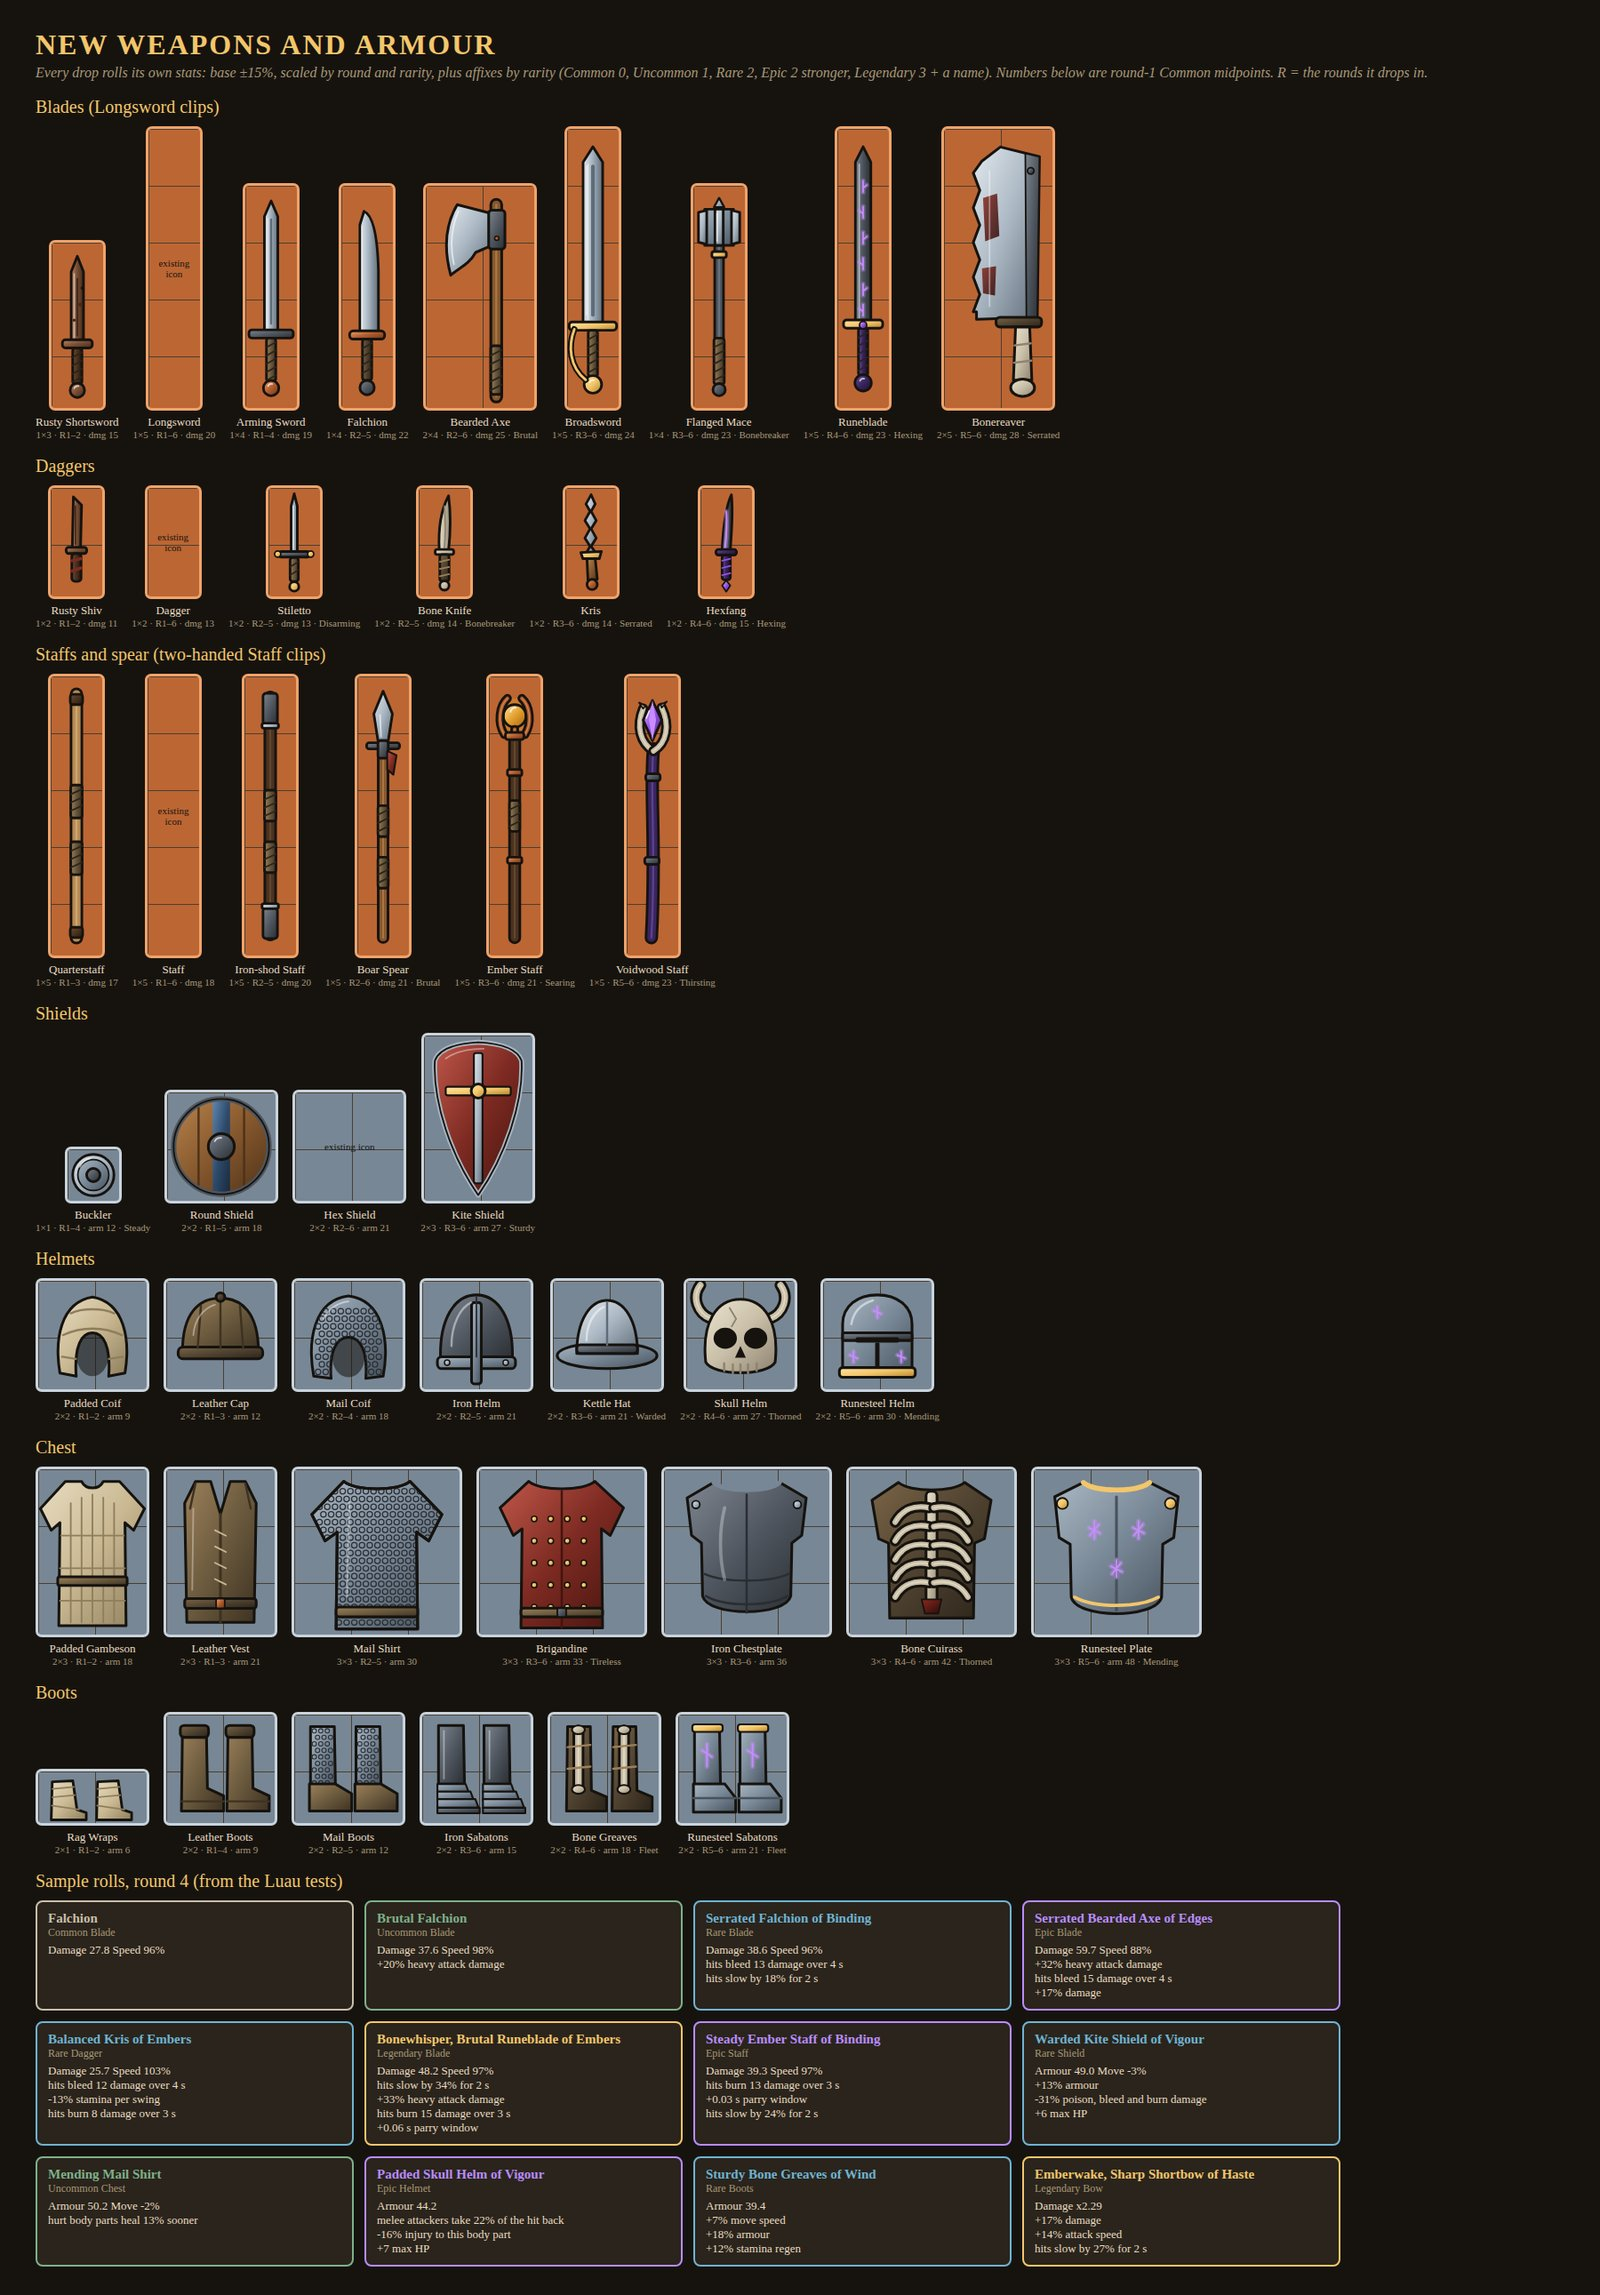
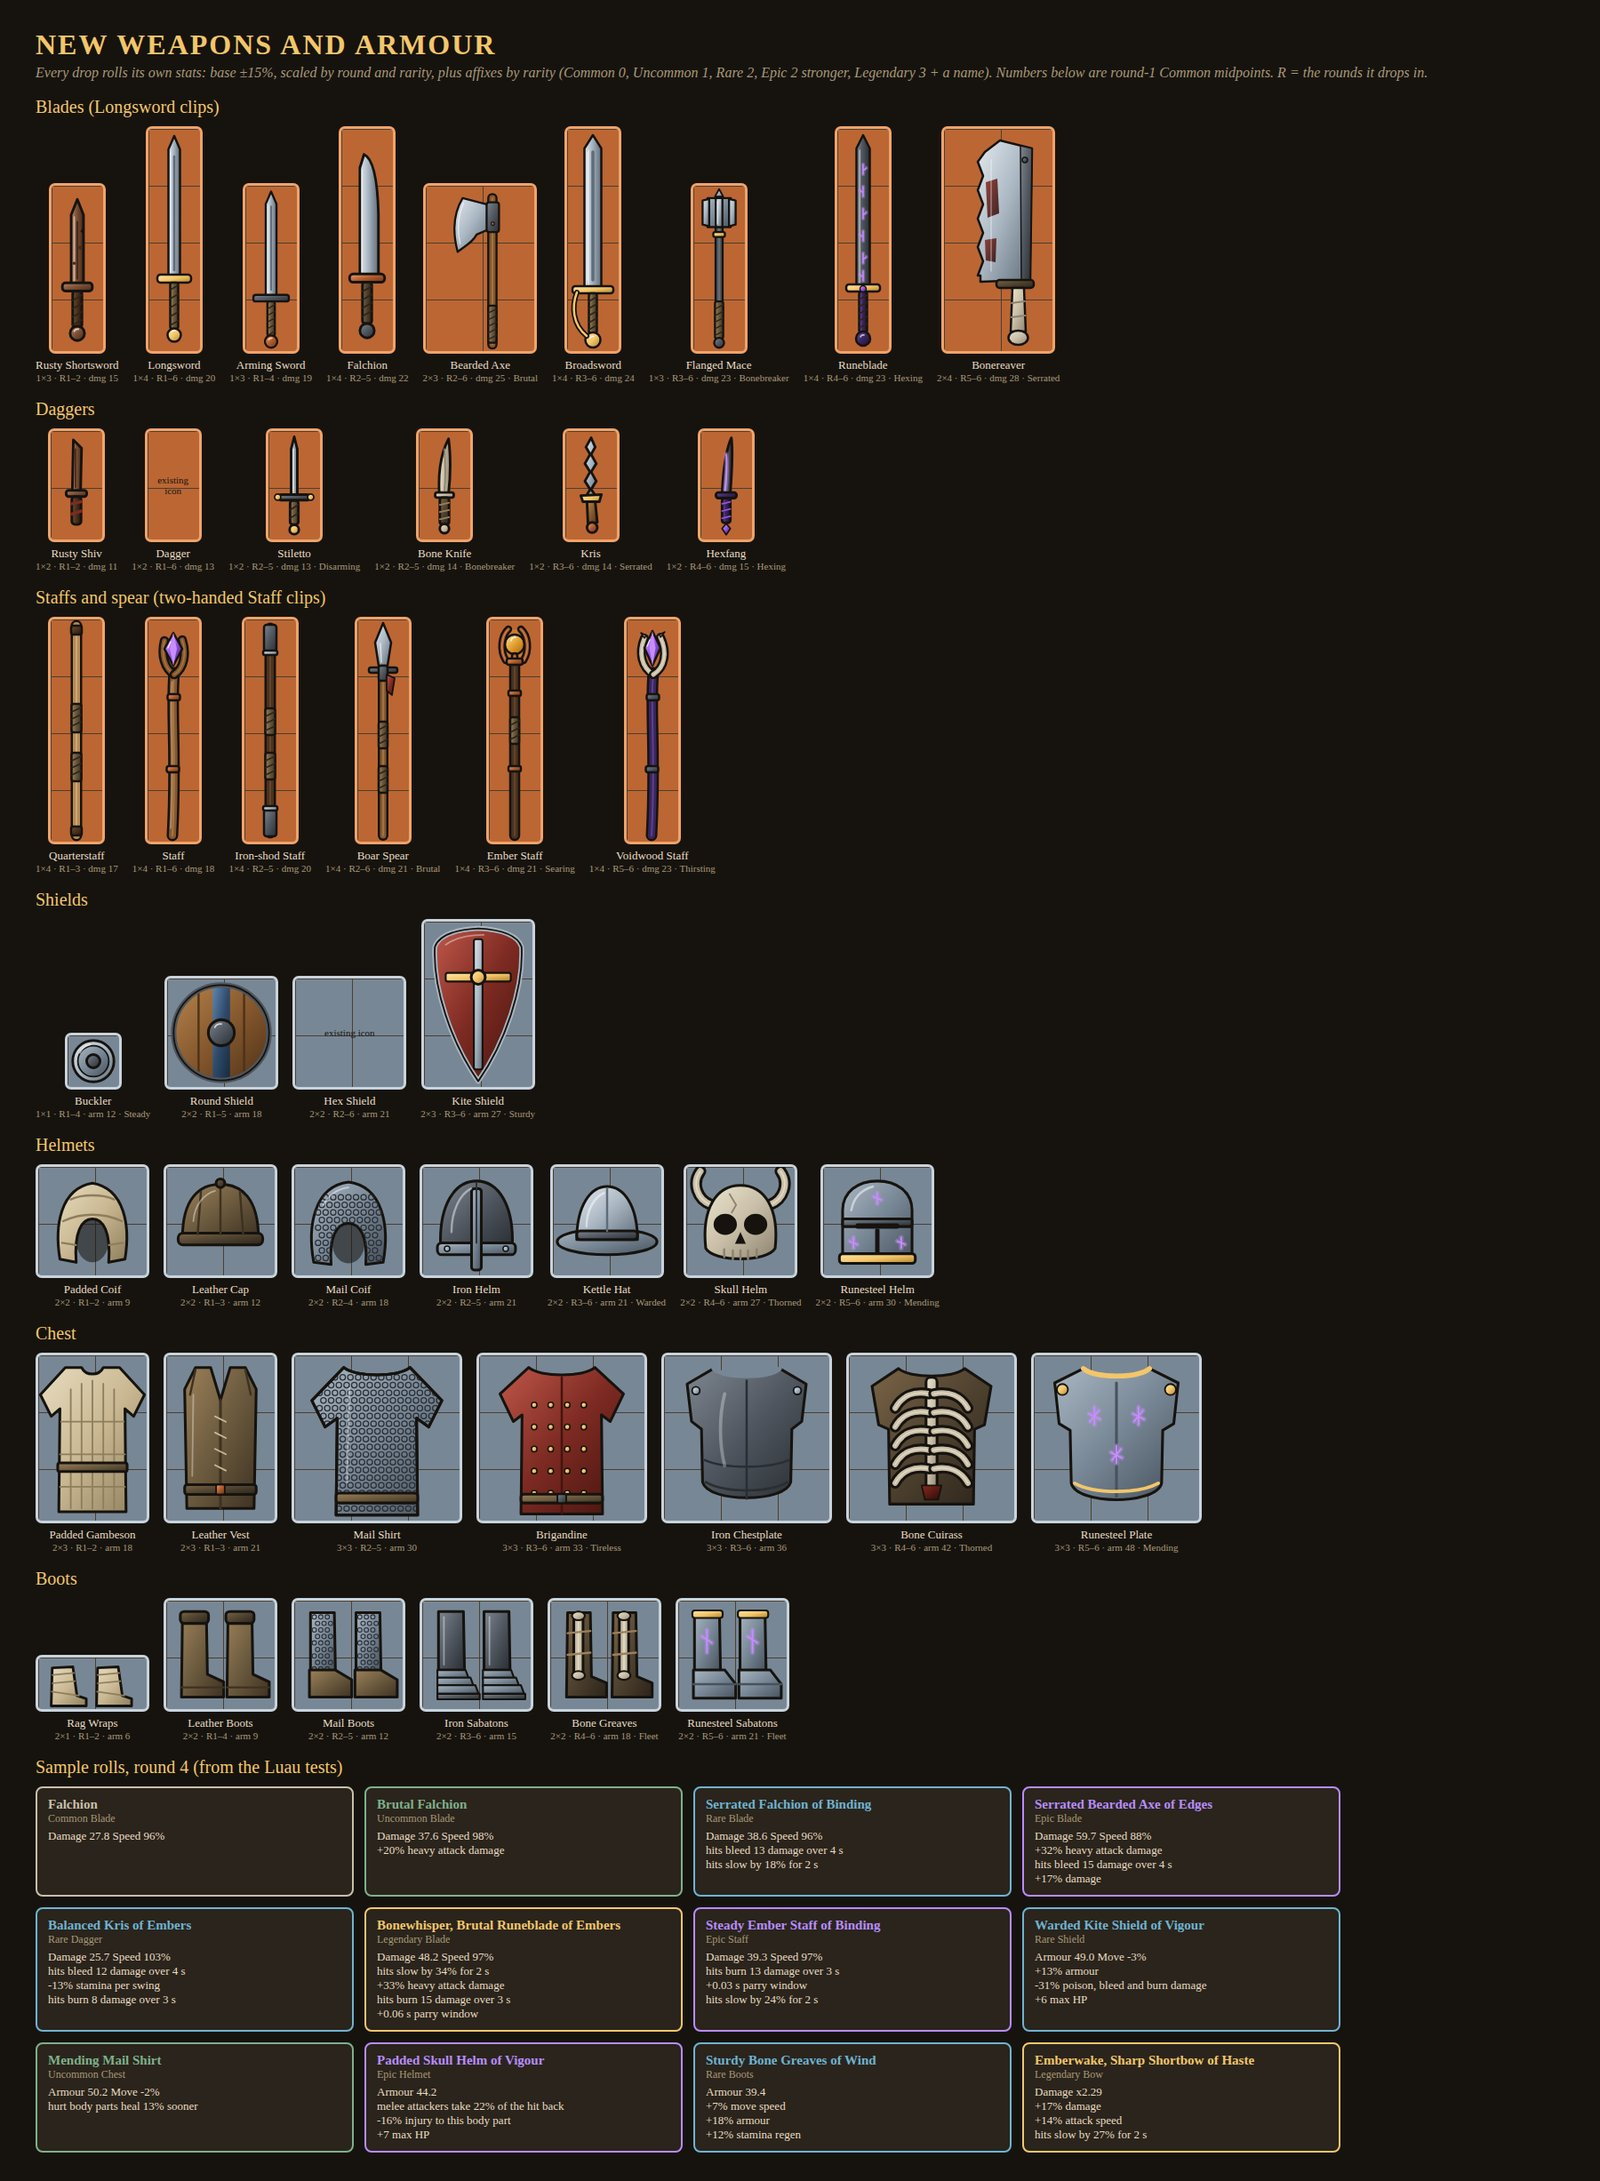
Weapons and armour: smaller footprints so every blade and staff fits the Knight
Claude-Session: https://claude.ai/code/session_018bW7hqKMKASJGZwR7DidCQ

Changed region(s): [[0.0, 0.0, 0.8438, 0.9977], [0.5, 0.0312, 0.6875, 0.1871], [0.375, 0.3741, 0.4375, 0.4365]]

diff --git a/docs/gear.md b/docs/gear.md
@@ -34,20 +34,20 @@ Each point of loot luck moves 30% of every tier's chance up one tier. Events kee
 
 ![The new weapon and shield models](assets/img/gear/weapon_roster.jpg)
 
-All of them use the existing animations: blades swing like the Longsword, daggers like the Dagger (25% quicker), and staffs and the spear like the Staff (two-handed). Damage is the round-1 Common midpoint of a light hit; heavy hits do 1.6×.
+No melee weapon is longer than 4 cells, so every class except the Witcher can wield any blade, staff or spear. The Witcher's smaller weapon slots take daggers and the short blades. All of them use the existing animations: blades swing like the Longsword, daggers like the Dagger (25% quicker), and staffs and the spear like the Staff (two-handed). Damage is the round-1 Common midpoint of a light hit; heavy hits do 1.6×.
 
 ### Blades
 | Item | Size | Rounds | Damage | Built-in bonus | Look |
 |-|-|-|-|-|-|
 | Rusty Shortsword | 1x3 | 1–2 | 15 (speed 105%) | – | a pitted starter blade |
-| Longsword | 1x5 | 1–6 | 20 (speed 100%) | – | the all-rounder |
-| Arming Sword | 1x4 | 1–4 | 19 (speed 106%) | – | light and quick for a sword |
+| Longsword | 1x4 | 1–6 | 20 (speed 100%) | – | the all-rounder |
+| Arming Sword | 1x3 | 1–4 | 19 (speed 106%) | – | light and quick for a sword |
 | Falchion | 1x4 | 2–5 | 22 (speed 96%) | – | broad single edge, chops hard |
-| Bearded Axe | 2x4 | 2–6 | 25 (speed 88%) | Brutal | slow, heavy blows |
-| Broadsword | 1x5 | 3–6 | 24 (speed 92%) | – | wide blade, knuckle guard |
-| Flanged Mace | 1x4 | 3–6 | 23 (speed 92%) | Bonebreaker | breaks bones |
-| Runeblade | 1x5 | 4–6 | 23 (speed 100%) | Hexing | arcane runes slow what it cuts |
-| Bonereaver | 2x5 | 5–6 | 28 (speed 85%) | Serrated | grisly serrated cleaver |
+| Bearded Axe | 2x3 | 2–6 | 25 (speed 88%) | Brutal | slow, heavy blows |
+| Broadsword | 1x4 | 3–6 | 24 (speed 92%) | – | wide blade, knuckle guard |
+| Flanged Mace | 1x3 | 3–6 | 23 (speed 92%) | Bonebreaker | breaks bones |
+| Runeblade | 1x4 | 4–6 | 23 (speed 100%) | Hexing | arcane runes slow what it cuts |
+| Bonereaver | 2x4 | 5–6 | 28 (speed 85%) | Serrated | grisly serrated cleaver |
 
 ### Daggers
 | Item | Size | Rounds | Damage | Built-in bonus | Look |
@@ -62,12 +62,12 @@ All of them use the existing animations: blades swing like the Longsword, dagger
 ### Staffs and spear
 | Item | Size | Rounds | Damage | Built-in bonus | Look |
 |-|-|-|-|-|-|
-| Quarterstaff | 1x5 | 1–3 | 17 (speed 100%) | – | plain ash pole |
-| Staff | 1x5 | 1–6 | 18 (speed 100%) | – | the Arcanist's staff |
-| Iron-shod Staff | 1x5 | 2–5 | 20 (speed 97%) | – | iron caps both ends |
-| Boar Spear | 1x5 | 2–6 | 21 (speed 96%) | Brutal | heavy leaf head with lugs |
-| Ember Staff | 1x5 | 3–6 | 21 (speed 100%) | Searing | a live coal in a copper cage |
-| Voidwood Staff | 1x5 | 5–6 | 23 (speed 100%) | Thirsting | bone claws, drinks life |
+| Quarterstaff | 1x4 | 1–3 | 17 (speed 100%) | – | plain ash pole |
+| Staff | 1x4 | 1–6 | 18 (speed 100%) | – | the Arcanist's staff |
+| Iron-shod Staff | 1x4 | 2–5 | 20 (speed 97%) | – | iron caps both ends |
+| Boar Spear | 1x4 | 2–6 | 21 (speed 96%) | Brutal | heavy leaf head with lugs |
+| Ember Staff | 1x4 | 3–6 | 21 (speed 100%) | Searing | a live coal in a copper cage |
+| Voidwood Staff | 1x4 | 5–6 | 23 (speed 100%) | Thirsting | bone claws, drinks life |
 
 The [ranged weapons](ranged.md) (Shortbow, Longbow, Crossbow, Throwing Axes) roll rarity and bonuses too, as a damage multiplier on their own damage.
 
